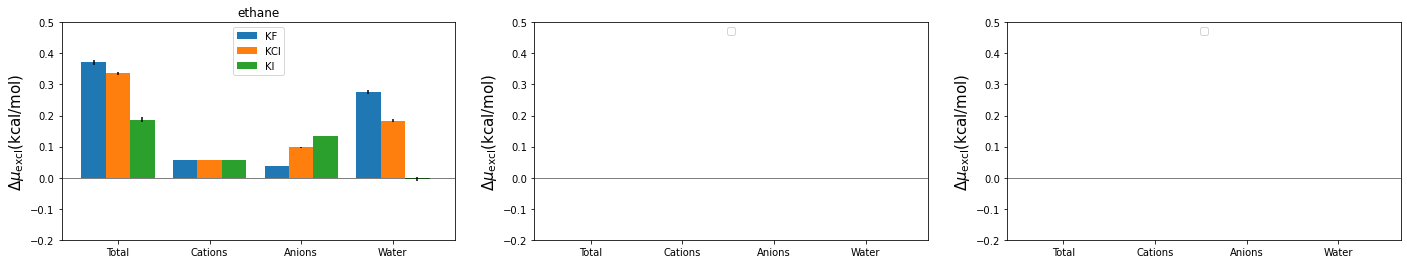
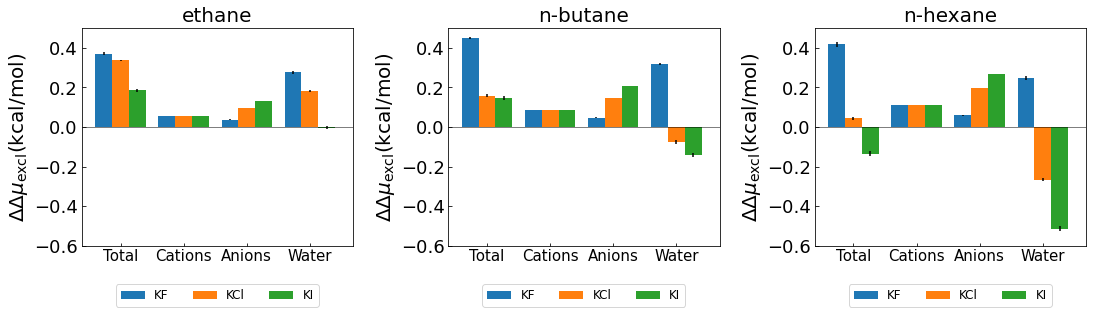
Updated

diff --git a/Figures/Output/README.md b/Figures/Output/README.md
@@ -1,5 +1,5 @@
 
 # Output Figures
-- `G_[cation].png` $\Delta\Delta G_{\mathrm{sol}}$ grouped by cation
+- `mu_[cation].png` $\Delta\Delta \mu_{\mathrm{sol}}$ grouped by cation
 - `P_[cation].png` Pair energy grouped by cation
 - `ex_[cation].png` Excluded volume grouped by cation
